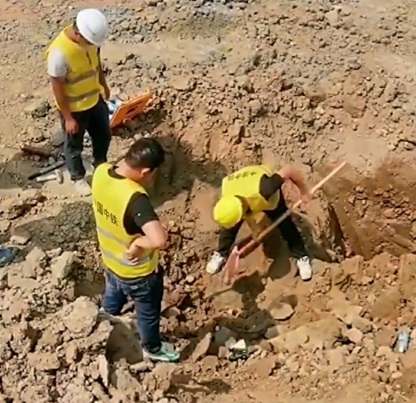
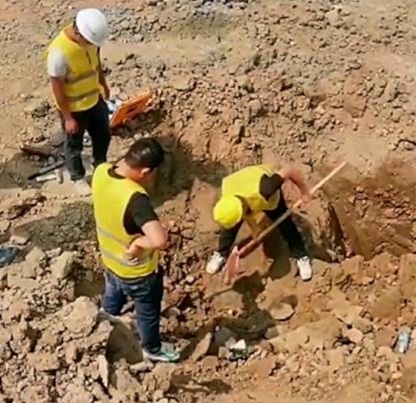
2026年11月24日

diff --git a/source/_posts/2688-tuibeitu10.md b/source/_posts/2688-tuibeitu10.md
@@ -74,7 +74,7 @@ description: 金圣叹推背图综合分析之大化, 第五一到第五八象.
   - *辞译: (冬祭活动,) 监临视察, 大为亨通, 利于持守. 到了八月会有凶险.*
     - *临卦(今农历十二月, 即腊月)为冬季, 商周时期, 君王会在此时举行全年最为隆重的祭祀活动, 会对先祖和神明报功祈福, 同时宣示王权, 展示恩德, 凝聚人心.*
     - *"八月", 主流有两种解释. 一说为周朝时期的八月份(今农历六月), 周朝历法将复卦定义为一月, 临卦为二月, 则八月为遁卦, 为临之错卦. 二说为八个月之后, 也可正好对应如今农历的八月, 为观卦, 为临之综卦.*
-    - *"八月有凶": 这是临卦的关键之处, 即凶从何来? 八月之凶, 实指水患. 商周时期, 黄河水患的高发期就是在夏秋时节, 为农历的六月(遁卦)到八月(观卦). 正因为水患, 才需临卦之监临视察, 管理众人, 进行治水. 而由此反推, 爻辞中的"八月", 就是周朝历法的八月(对应如今农历的六月), 为遁卦(此卦有避祸之义), 需要登高观察水势, 组织人手, 治水疏通, 排除隐患, 这些工作必须在水患之初就着手安排, 所以不可能是观卦所对应的月份.*
+    - *"八月有凶": 这是临卦的关键之处, 即凶从何来? 八月之凶, 实指水患. 商周时期, 黄河水患的高发期就是在夏秋时节, 为农历的六月(遁卦)到八月(观卦). 正因为水患, 才需临卦之监临视察, 管理众人, 治水救灾. 而由此反推, 爻辞中的"八月", 就是周朝历法的八月(对应如今农历的六月), 为遁卦(此卦有避祸之义), 需要登高观察水势, 组织人手, 治水疏通, 排除隐患, 这些工作必须在水患之初就着手安排, 所以不可能是观卦所对应的月份.*
   - 一女一男,  以柔顺厚德, 感化并治理天下.
 - 初九: 咸临，贞吉。
   - *辞译: 全员集合, (准备接受) 监临视察 , 持守(仪容)吉利.*
@@ -177,12 +177,42 @@ description: 金圣叹推背图综合分析之大化, 第五一到第五八象.
 互卦: ䷵ 雷泽归妹;   错卦: ䷋ 天地否;   综卦: ䷋ 天地否.
 
 - **本卦地天泰: 小往大来，吉，亨。**
+  - *"泰", .*
+    - *上坤 `☷` 下乾 `☰` , 乾天动而上升, 坤地静而下沉. 阴阳相交, 气机对流, 上下通达.*
+    - *天爻老阴 `⚏` 冬季蓄藏, 地爻老阳 `⚌` 正盛. 人爻少阴 `⚍` 成熟稳重.*
+
+    - *辞译: .*
+      - *"小往大来": 常见释义为"阴气外退, 阳气内聚". 此处按大为"大人",小为"小人"来解.*
+      - *"小人": 庶民等下位者; "大人": 实权贵族等上位者; "君子": 有宗法身份的贵族, 多有涵养.*
+    - *儒译: 阴者远遁离去, 阳者不断汇聚, 吉利, 亨通.*
+
 - 初九: 拔茅茹，以其汇。征吉。
-- 九二: 包荒，用冯河，不遐遗。朋亡，得尚于中行。
+  - *辞译: 拔起茅草时, 根系牵连成团而出. (及时发现诸侯结盟之问题.) 出征解决吉利.*
+    - *"茹(rú)": 根部相连的样子.*
+    - *"茅茹": 上升渠道畅通, 底层各自奋进, 但中上层易形成利益共同体, 结为朋党, 互相包庇, 谋取私利.*
+    - *"拔茅茹，以其汇": 拔茅者只能是上位者, 可引申为君王及时发现并处理内部结党营私的问题.*
+    - *初九爻变得地风升.*
+  - *儒译: 君子在泰初之时, 应如茅茹根部相连一般, 引荐同类, 共同出仕辅政, 群贤毕至. 出征行动吉利.*
+- 九二: 包荒，用冯河，不遐遗，朋亡，得尚于中行。
+  - *辞译: .*
+    - *九二爻变得地火明夷.*
+  - *儒译:  包容荒秽 (宽宏大量), 徒步涉河; 不遗漏远方的贤才, 朋党消亡 (不结党营私) , 以中庸之道行事而得到尊崇.*
 - **九三世爻: 无平不陂，无往不复。艰贞无咎。勿恤其孚，于食有福。**
+  - *辞译: .*
+    - *九三爻变得地泽临.*
+  - *儒译: 没有只平不斜的, 没有只去不回的 (,盛极必衰是自然规律). 在艰难中守持正道就没有灾祸. 不必忧虑眼前的诚信与得失, 仍能安享俸禄与福泽.*
 - 六四: 翩翩，不富以其邻，不戒以孚。
+  - *辞译: .*
+    - *六四爻变得雷天大壮.*
+  - *儒译: 轻快飞翔的样子 (阴柔下行), 不靠财富就能与邻居(同类)相亲, 不需告诫就能彼此诚信相待.*
 - 六五: 帝乙归妹，以祉元吉。
+  - *辞译: .*
+    - *六五爻变得水天需.*
+  - *儒译: 商王帝乙将女儿下嫁, (尊者放下身段, 礼贤下士), 因此获得福祉, 大为吉利.*
 - **上六应爻: 城复于隍，勿用师，自邑告命。贞吝。**
+  - *辞译: .*
+    - *上六爻变得山天大畜.*
+  - *儒译: (泰极而否.) 城墙倾覆, 陷入护城河. 此时不可用兵征战, 只能在自己的封邑内发布政令. 守正也有憾惜.*
 - 互卦雷泽归妹: 征凶，无攸利。
 - 错卦和综卦天地否: 否之匪人，不利君子贞，大往小来。
 

diff --git a/source/_posts/2680-tuibeitu2.md b/source/_posts/2680-tuibeitu2.md
@@ -338,13 +338,13 @@ description: 金圣叹推背图综合分析之唐朝, 第二到第九象.
     - "否之匪人": 武则天晚年困居深宫, 信息渠道被二张垄断.
     - "不利君子贞": 此处君子指上位者武则天, 无法持久持守帝位.
     - "大往小来": 上位者武则天及其亲信势力溃散退场, 下位者拥李朝臣汇聚成势发起政变.
-- 初六: 拔茅茹以其汇。贞吉，亨。
+- 初六: 拔茅茹，以其汇。贞吉，亨。
   - *辞译: 拔起茅草时, 根系牵连成团而出. (及时发现小人抱团问题.) 这样坚守得吉, 亨通.*
     - *"茹(rú)": 根部相连的样子.*
     - *"茅茹": 上下闭塞不通, 底层"小人"形成共识并抱团, 譬如底层反抗, 农民起义.*
-    - *"拔茅茹以其汇": 拔茅者只能是上位者, 可引申为上位者及时发现了下位者抱团问题.*
+    - *"拔茅茹，以其汇": 拔茅者只能是上位者, 可引申为上位者及时发现了下位者抱团问题.*
     - *初六爻变得天雷无妄. 即发现否象, 及时处理, 没有过错, 可得无咎. 下卦震雷, 及时的行动处理.*
-  - *儒译: 君子在否塞之时, 应(如茅茹根部相连一般, )与同类守正待时, 可得亨通.*
+  - *儒译: 君子在否塞之时, 应如茅茹根部相连一般, 与同类守正待时, 可得亨通.*
   - 704年, 张柬之入相. 随后暗中联络崔玄𬀩, 敬晖, 桓彦范, 袁恕己等人, 结成拥李复唐政治同盟.
 - 六二: 包承，小人吉，大人否。亨。
   - *辞译: 将包裹着的食物捧持, (给予)庶民是吉利的, (进献)贵族是闭塞的. 亨通.*
